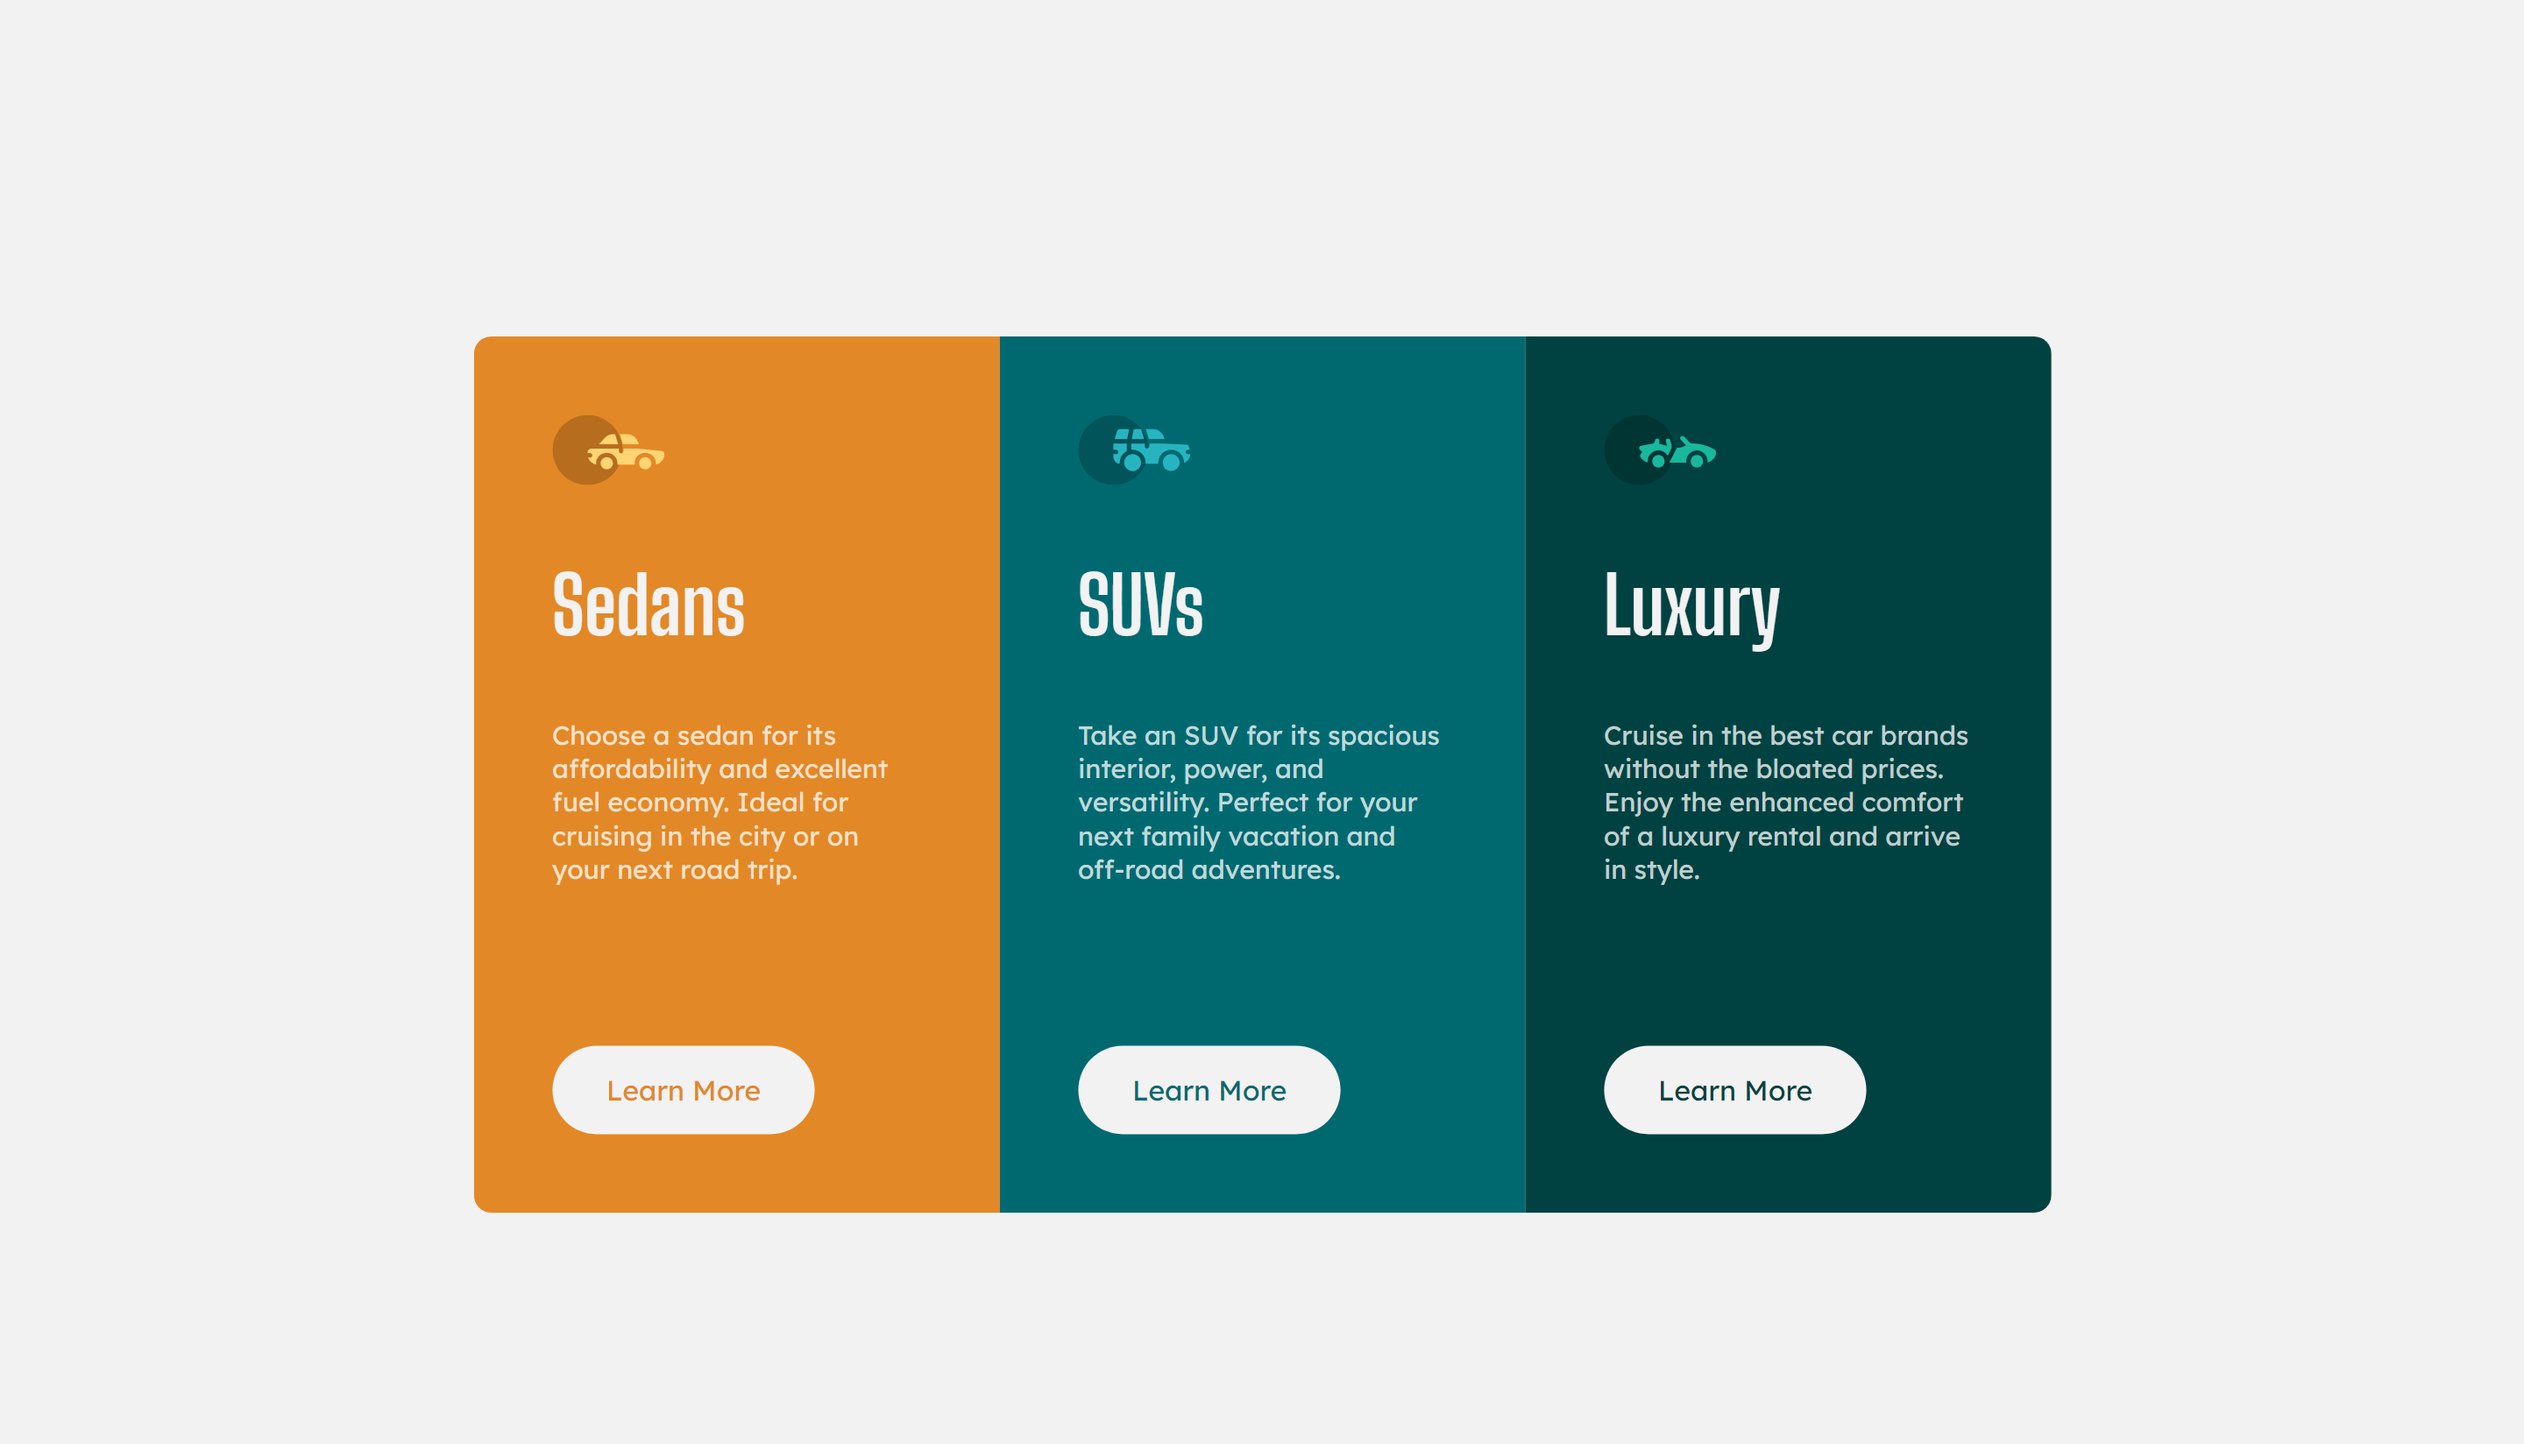
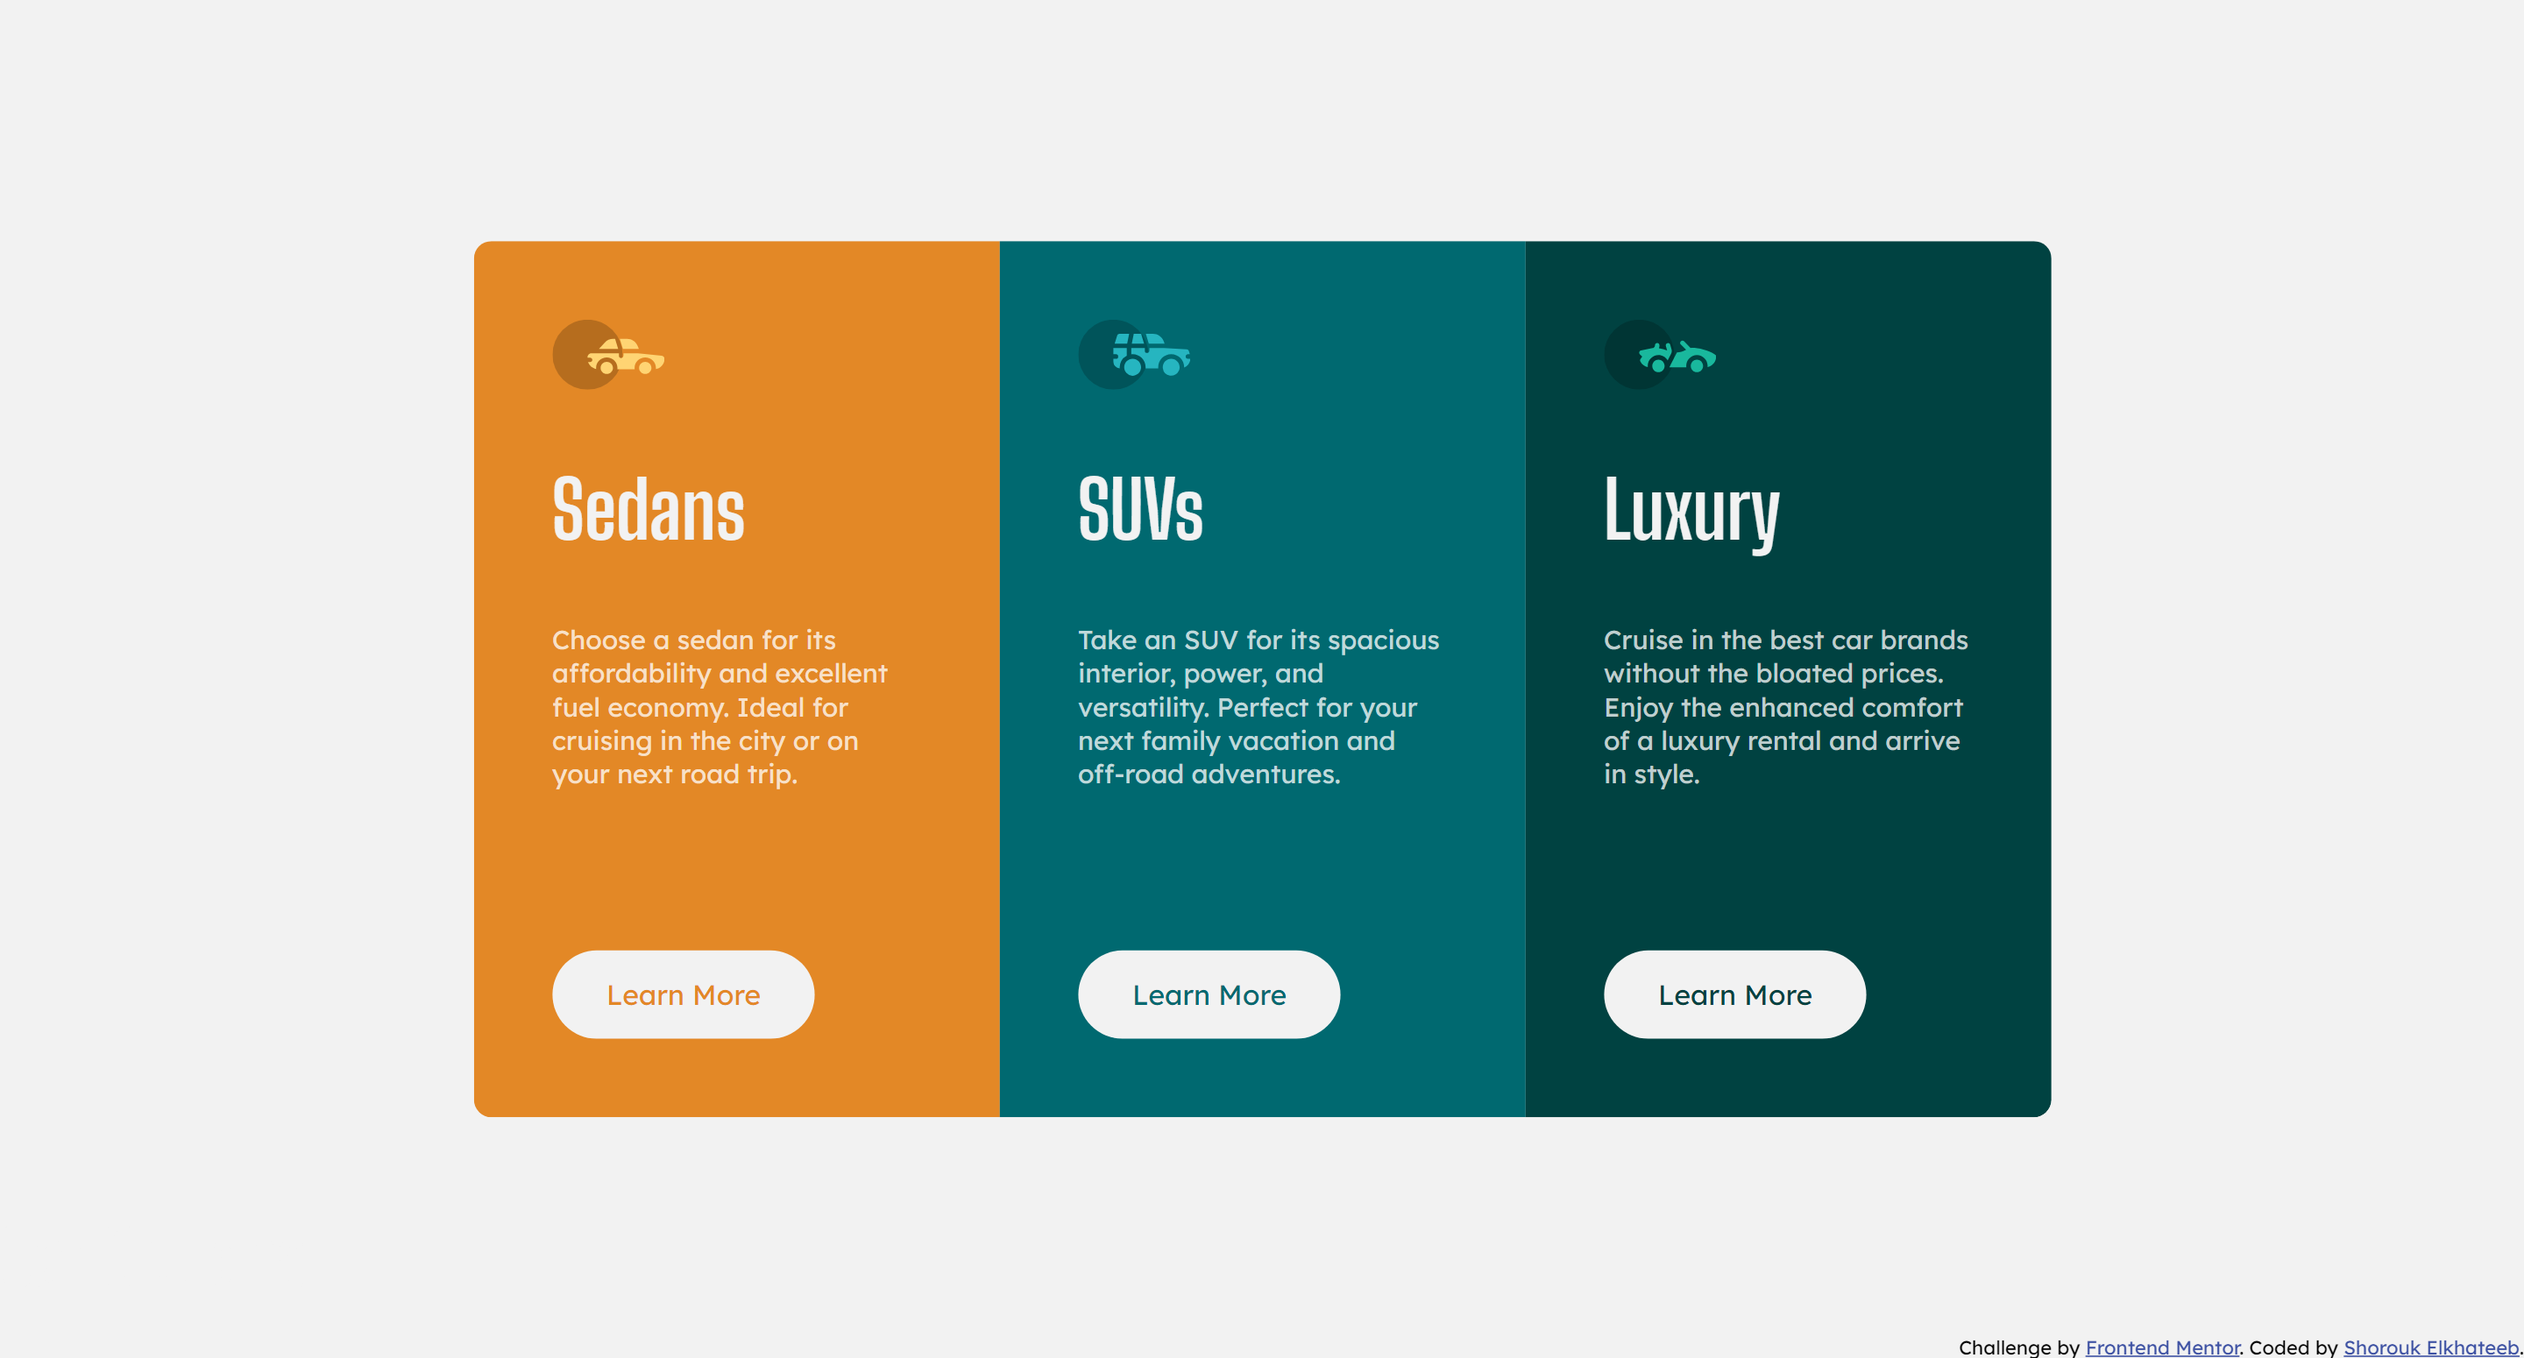
Remove scroll

diff --git a/index.html b/index.html
@@ -58,7 +58,7 @@
       Challenge by
       <a href="https://www.frontendmentor.io?ref=challenge" target="_blank"
         >Frontend Mentor</a
-      >. Coded by <a href="#">Your Name Here</a>.
+      >. Coded by <a href="https://www.frontendmentor.io/profile/shElkhateeb" target="_blank">Shorouk Elkhateeb</a>.
     </footer>
   </body>
 </html>

diff --git a/css/style.css b/css/style.css
@@ -27,9 +27,10 @@ h2 {
   font-size: 3em;
 }
 
-h1 {
-  width: 0;
-  height: 0;
+header {
+  position: absolute;
+  left: 0;
+  bottom: 0;
 }
 
 p {
@@ -129,7 +130,9 @@ section {
 
 .attribution {
   font-size: 11px;
-  text-align: center;
+  position: fixed;
+  bottom: 0;
+  right: 0;
 }
 .attribution a {
   color: hsl(228, 45%, 44%);
